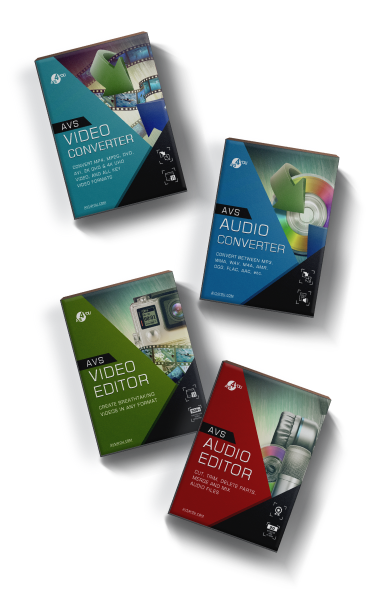
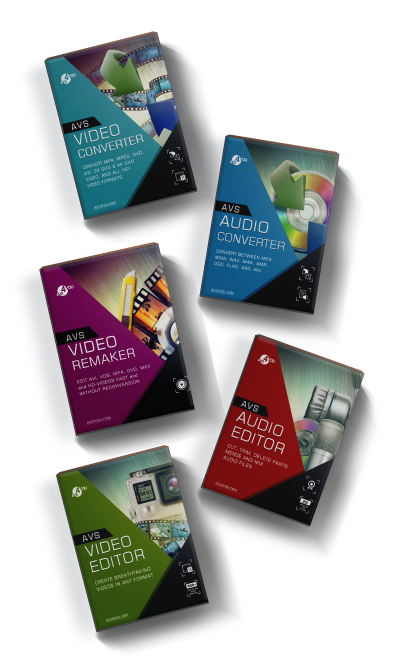
fix avs-special-offer.aspx

diff --git a/Client/src/styles/avs-special-offer.less b/Client/src/styles/avs-special-offer.less
@@ -38,21 +38,23 @@
         background-image: url(../images/avs-special-offer/snowflakes-special-offer.png);
         background-repeat: no-repeat;
         z-index: 1;
+        background-position-y: 50%;
     }
     .multimedia-header {
         width: 50vw;
-        height: 710px;
+        height: 700px;
         background-size: contain;
-        background-image: url(../images/avs-special-offer/multimedia-special-offer.png);
+        background-image: url(../images/avs-special-offer/box-special-offer.png);
         z-index: 2;
         background-repeat: no-repeat;
         position: relative;
+        background-position-y: 50%;
     }
 
 .text-header {
     position: relative;
     margin-left: 50px;
-    padding: 0 40px;
+    padding: 0 40px 0 0;
     .textHeader {
         background: linear-gradient(to bottom, #EA1313, #AF0B0E);
         -webkit-background-clip: text;
@@ -90,15 +92,6 @@
 
     .bodyGrab {
         text-transform: uppercase;
-    }
-
-    .avs-logo {
-        background-image: url(../images/avs-special-offer/logo-special-offer.png);
-        height: 135px;
-        width: 142px;
-        position: absolute;
-        top: -52px;
-        left: -155px;
     }
 
     .bodyOff {
@@ -280,6 +273,15 @@
         font-size: 16px !important;
     }
 
+    .snowflakes-header {
+        background-image: url(../images/avs-special-offer/snowflakes-tablet-special-offer.png) !important;
+        top: 100px !important;
+        right: 100px !important;
+        background-size: auto !important;
+        width: 100% !important;
+        height: 581px !important;
+    }
+
     .multimedia-header {
         background-image: url(../images/avs-special-offer/box-tablet-special-offer.png) !important;
         margin-top: -53px;
@@ -292,10 +294,6 @@
 
     .textHeader {
         margin-left: 0 !important;
-    }
-
-    .snowflakes-header {
-        top: 150px !important;
     }
 
     .text-header {
@@ -329,6 +327,10 @@
 
     .bodyGrab {
         font-size: 50px !important;
+    }
+
+    .full-pack {
+        margin-bottom: 0 !important;
     }
 
     .mainHeaderComment {
@@ -373,13 +375,9 @@
         background-repeat: no-repeat;
         position: absolute;
         background-position-x: 50%;
-        background-size: contain;
         top: 25px !important;
         right: 0 !important;
-    }
-
-    .multimedia-header {
-        display: none;
+        background-size: 90% !important;
     }
 
     .text-header {
@@ -502,26 +500,53 @@
         height: 772px !important; 
     }
 
-    .full-pack {
-        margin-bottom: 0 !important;
+    .multimedia-header {
+        height: 391px !important;
+        background-image: url(../images/avs-special-offer/box-mobile-special-offer.png) !important;
+        position: absolute !important;
+        z-index: 2 !important;
+        top: 400px !important;
+        right: 0px !important;
+        width: 367px !important;
     }
 
-    .multimedia-header-mobile {
-        height: 300px !important;
-        background-size: contain;
-        background-image: url(../images/avs-special-offer/multimedia-special-offer.png);
-        background-repeat: no-repeat;
-        position: relative;
-        z-index: 2;
-        margin-top: 50px;
+    .precent-off {
+        font-size: 90px !important;
+        margin-top: 28px !important;
+    }
+
+    .bodyOff {
+        margin-top: -52px !important;
+        margin-left: 80px !important;
+    }
+
+    .snowflakes-header {
+        background-image: url(../images/avs-special-offer/snowflakes-mobile-special-offer.png) !important;
+        height: 399px !important;
+        right: -55px !important;
+        width: 483px !important;
+        top: 375px !important;
+    }
+
+    .mainHeaderComment {
+        font-size: 10px !important;
+        text-transform: none !important;
+        padding: 15px 0 !important;
     }
 
     .avs-logo {
         top: 0px !important;
     }
+}
+
+@media (max-width: 350px) {
+    .multimedia-header {
+        background-size: 80% !important;
+        background-position-x: 75% !important;
+    }
 
     .snowflakes-header {
-        top: 451px !important;
-        width: 100vw !important;
+        background-size: 90% !important;
+        right: -110px !important;
     }
 }

diff --git a/Client/src/pages/avs-special-offer.aspx.js b/Client/src/pages/avs-special-offer.aspx.js
@@ -72,20 +72,20 @@ render(){
               <Text fontSize={46} fontWeight={700} className="textHeader">AVS4YOU</Text>
             </div>
             <Text fontSize={46} fontWeight={700} color="#fff" className="textMultiHeader">Multimedia Suite</Text>
-            <Button className="headerButton" 
-                    secondaryText={this.props.secondaryText && this.props.secondaryText} 
-                    textTransform="uppercase">
-                    <Link to="/installed-pack.aspx" target="_blank" rel="noreferrer noopener" className="style-button"> download now </Link>
-            </Button>
-            <div className="blockButton"></div>
-            <RedButton className="headerButton" 
-                    secondaryText={this.props.secondaryText && this.props.secondaryText} 
-                    textTransform="uppercase">
-                    <Link to="/register.aspx" target="_blank" rel="noreferrer noopener" className="style-button"> buy now </Link>
-            </RedButton>
-
+            <div className="button-block">
+              <Button className="headerButton" 
+                      secondaryText={this.props.secondaryText && this.props.secondaryText} 
+                      textTransform="uppercase">
+                      <Link to="/installed-pack.aspx" target="_blank" rel="noreferrer noopener" className="style-button"> download now </Link>
+              </Button>
+              <div className="blockButton"></div>
+              <RedButton className="headerButton" 
+                      secondaryText={this.props.secondaryText && this.props.secondaryText} 
+                      textTransform="uppercase">
+                      <Link to="/register.aspx" target="_blank" rel="noreferrer noopener" className="style-button"> buy now </Link>
+              </RedButton>
+            </div>
             <Text fontSize={16} fontWeight={400} color="#fff" className="mainHeaderComment">The offer is valid till December 26, 2021</Text>
-            <div className="multimedia-header-mobile"></div>
       </div>
     </div>
   </div>
@@ -172,6 +172,21 @@ render(){
                           <Text className="ListItem" color="#555555" fontWeight={400} fontSize={19}>Edit audio tags to update metadata and enable tracks grouping</Text>
                           <Text className="ListItem" color="#555555" fontWeight={400} fontSize={19}>Create your own audiobooks</Text>
                           <Text className="ListItem" color="#555555" fontWeight={400} fontSize={19}>Make customized ringtones for iPhone</Text>
+                      </ContentRowItem>
+
+                      <ContentRowItem 
+                          disableBG={true}
+                          imgLeft={true}
+                          imageName={"remaker-special-offer.png"}
+                          headerText={this.props.t("AVS Video ReMaker")}
+                          blueButtonLink="https://downloads.avs4you.com/distributives/AVSVideoReMaker.exe" 
+                          scrollTo="headerCoupon"   
+                      >
+                        <Text  className="ListTitle" color="#555555" fontWeight={600} fontSize={24}>A fast video editor to make edits without changing the original video file format.</Text>
+                          <Text className="ListItem" color="#555555" fontWeight={400} fontSize={19}>Cut and delete unnecessary parts</Text>
+                          <Text className="ListItem" color="#555555" fontWeight={400} fontSize={19}>Change scene sequence in all popular video formats</Text>
+                          <Text className="ListItem" color="#555555" fontWeight={400} fontSize={19}>Transfer video from camcorders and video cameras to hard drive</Text>
+                          <Text className="ListItem" color="#555555" fontWeight={400} fontSize={19}>Create home video DVD or Blu-ray discs</Text>
                       </ContentRowItem>
                   </PageContentWrapper>
 
